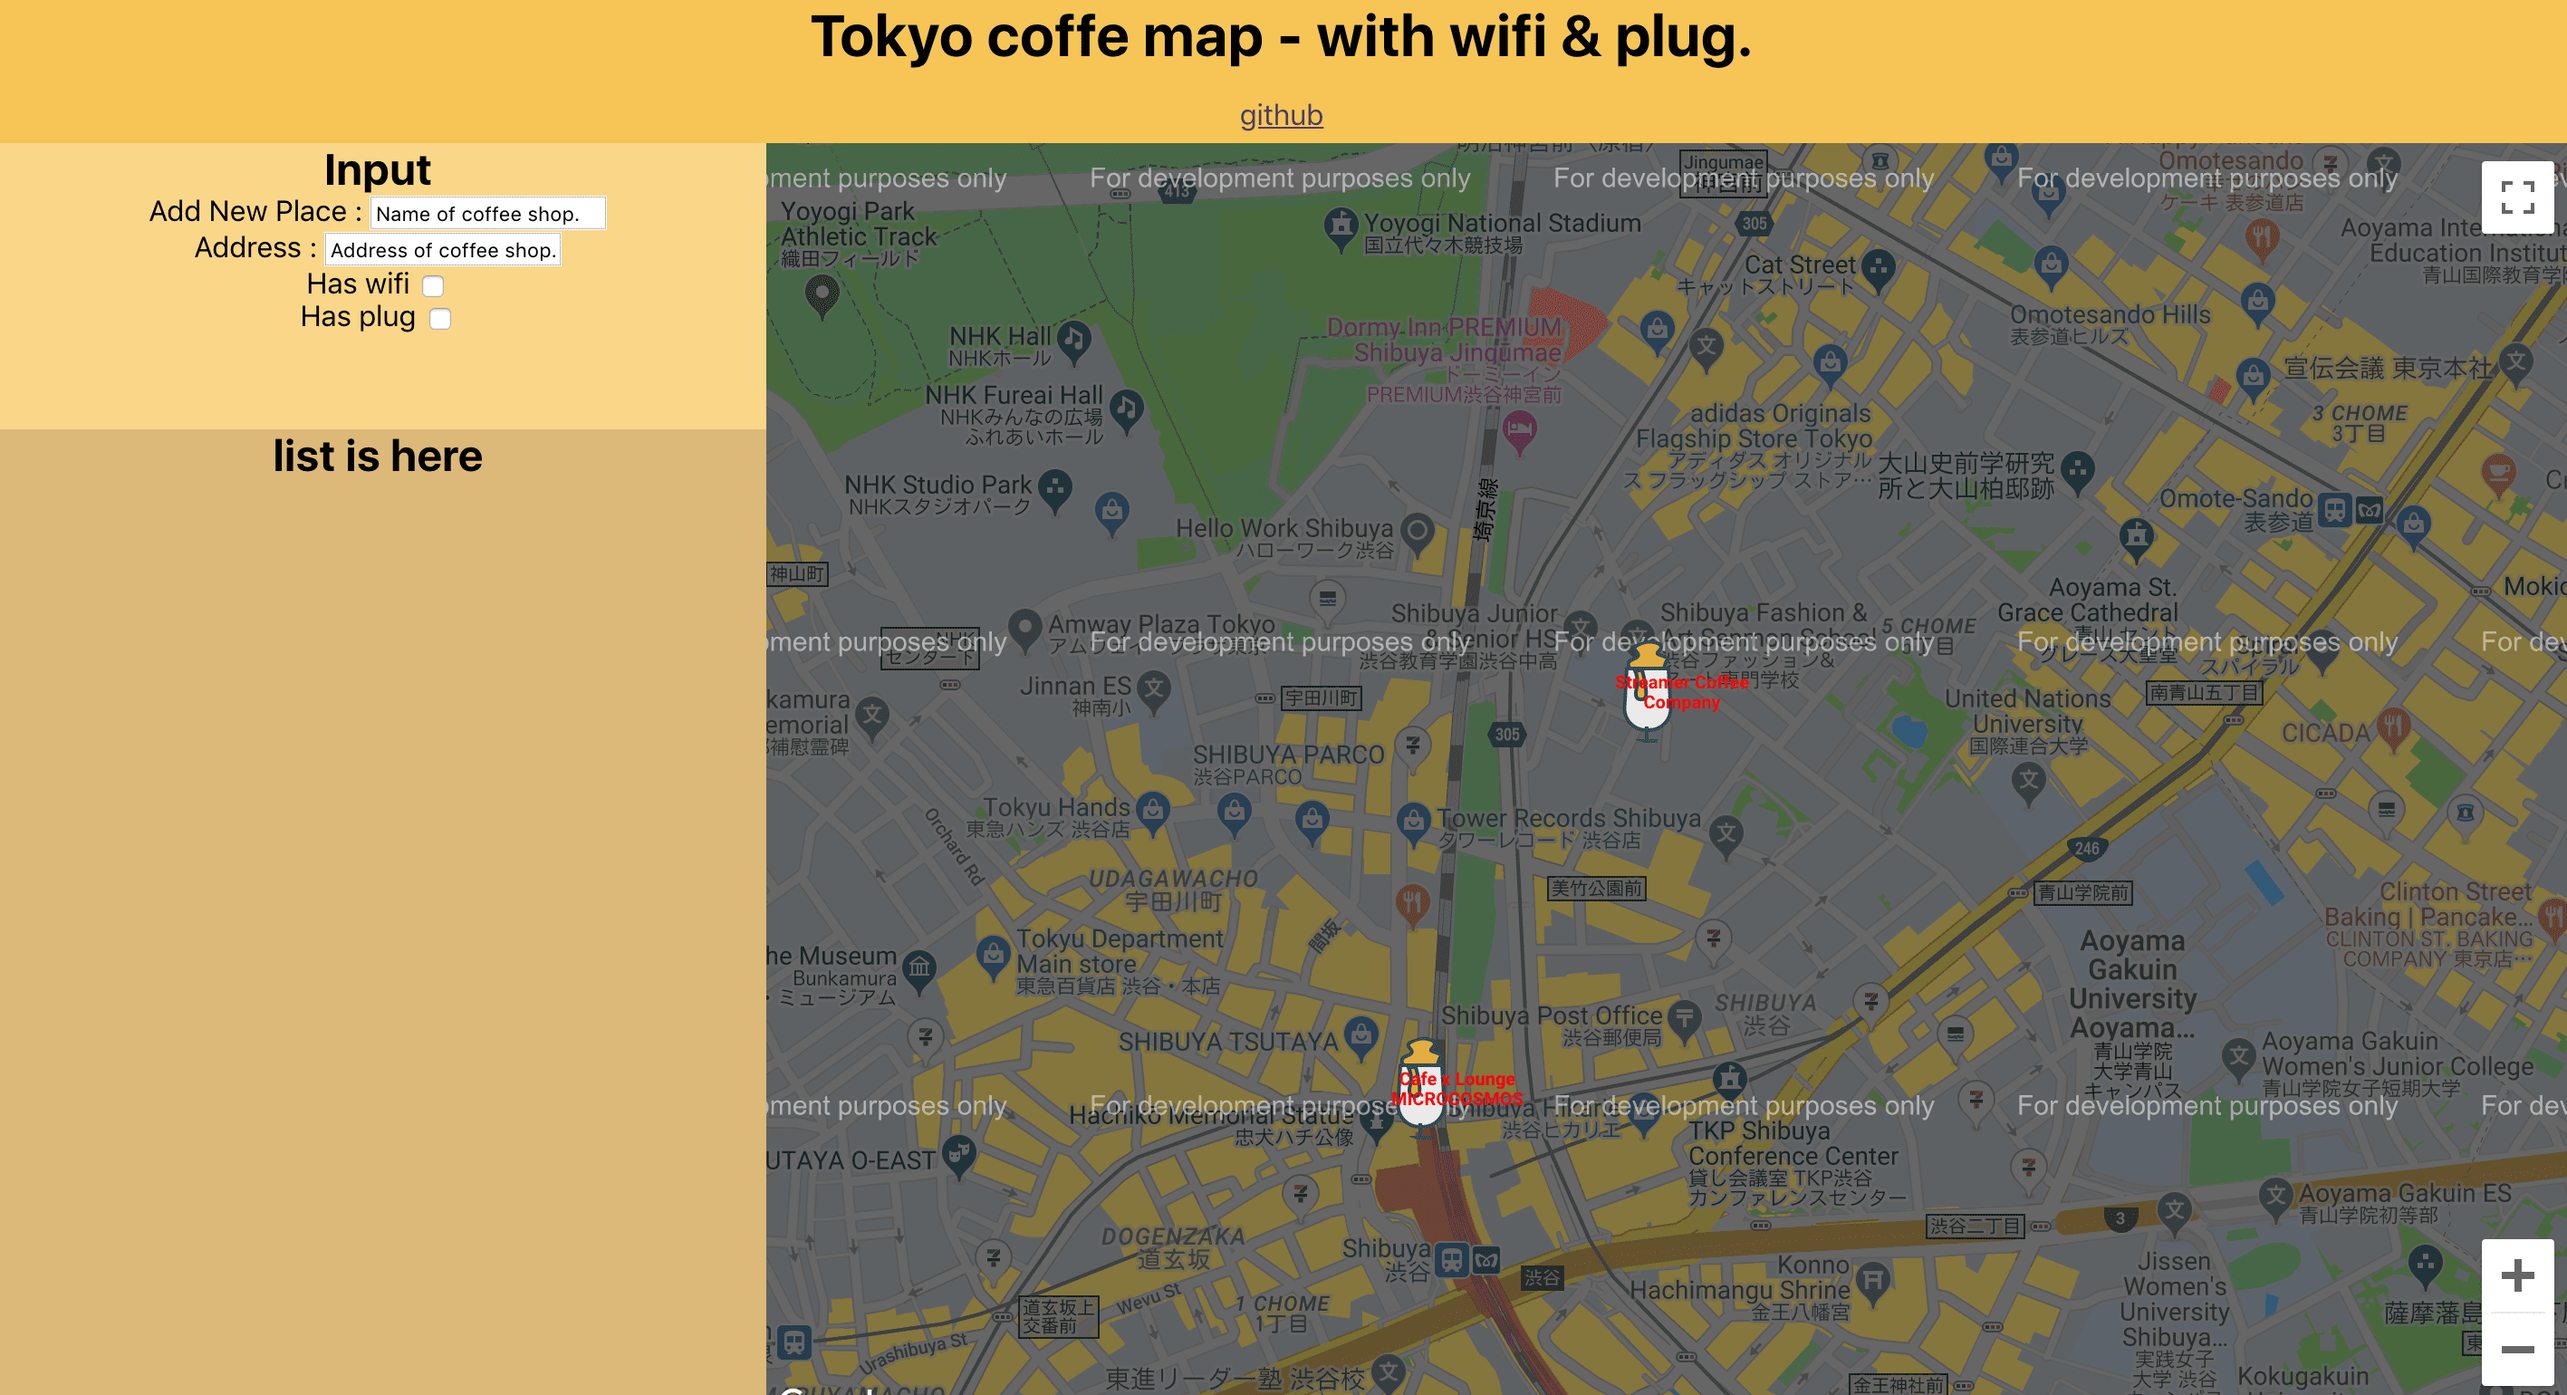
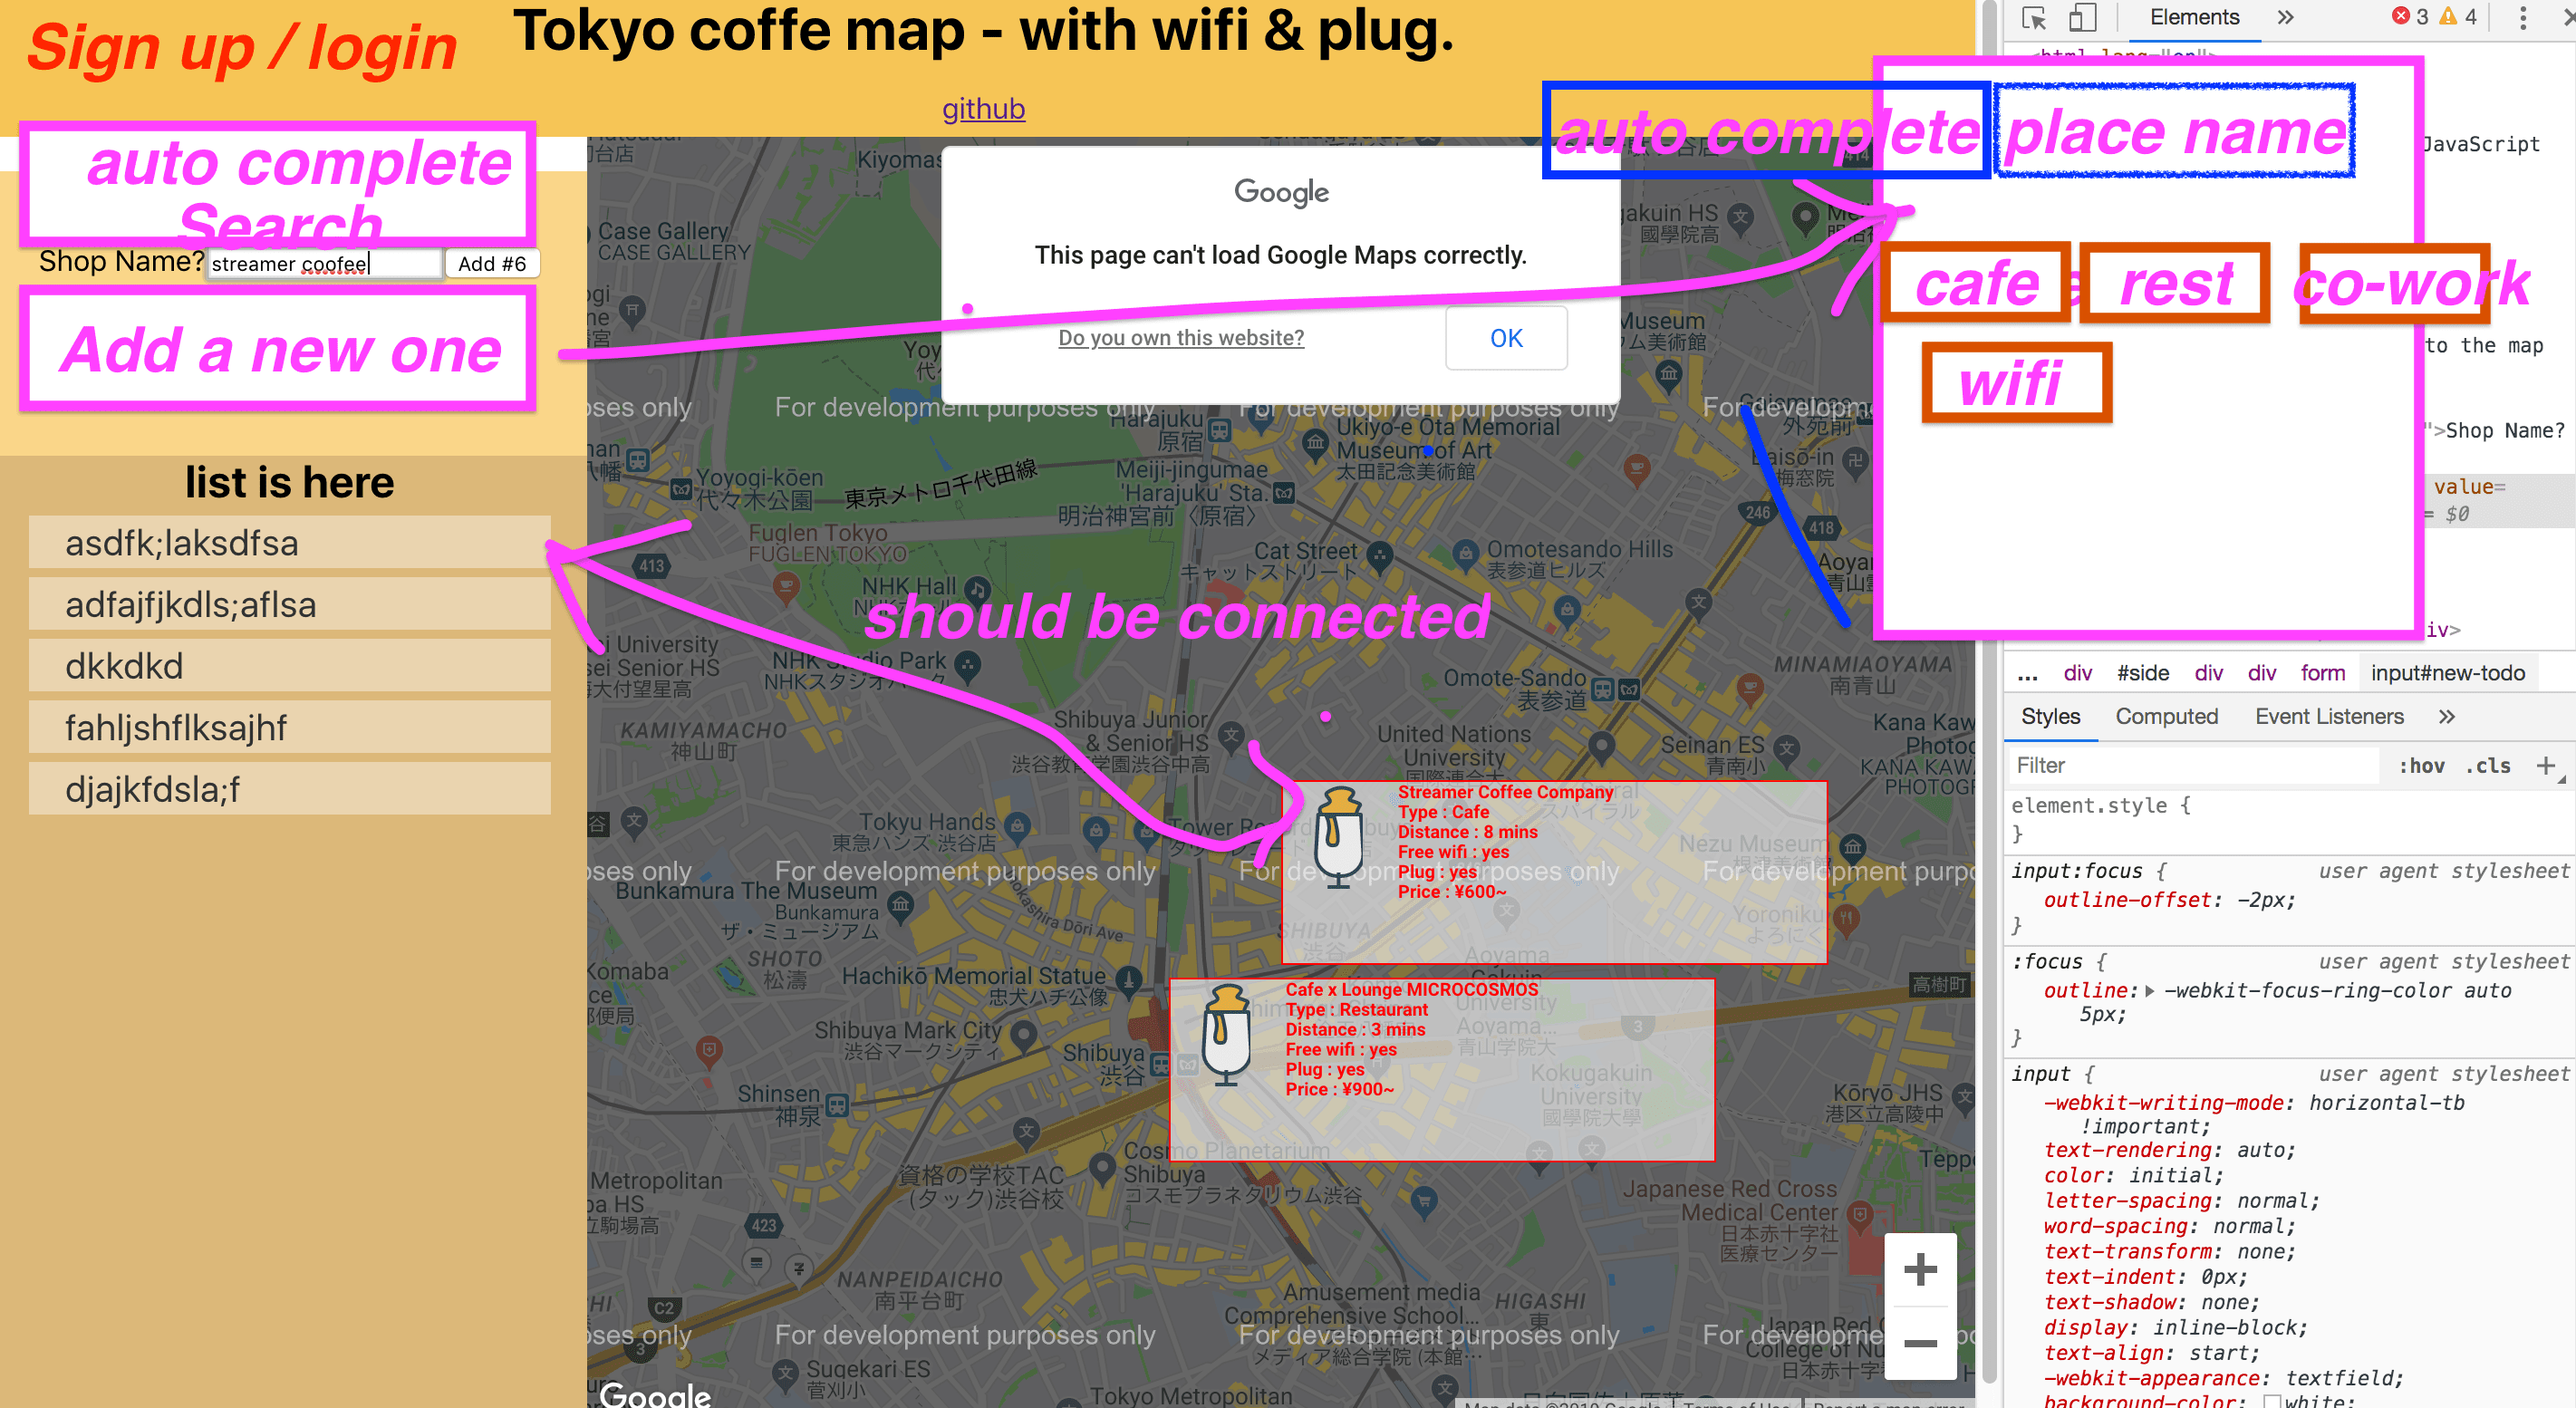
add new location and search section

diff --git a/src/index.js b/src/index.js
@@ -4,60 +4,36 @@ import './index.css';
 import App from './App';
 import * as serviceWorker from './serviceWorker';
 import SimpleMap from './components/map/google-map.js';
-
+import Input from './components/input/input.js';
 
 // ReactDOM.render(<App/>, document.getElementById('root'));
 
 function header() {
-    const header = (
-    <div class="header">
+    const header = (<div class="header">
         <h1>Tokyo coffe map - with wifi & plug.</h1>
         <a href="https://github.com/theyij/tokyo-dev-map" rel="noopener
- noreferrer"　target="_blank"><p>github</p></a>
+ noreferrer" target="_blank">
+            <p>github</p>
+        </a>
     </div>);
     ReactDOM.render(header, document.getElementById('header'));
 }
-function input() {
-    const input = (
-    <div class="input">
-        <h2>Input</h2>
-        <div>
-            <label for="name">Add New Place : </label>
-            <input type="text" id="name" name="name" value="Name of coffee shop." required />
-        </div>
-        <div>
-            <label for="address">Address : </label>
-            <input type="text" id="address" name="address" value="Address of coffee shop." required />
-        </div>
-        <div>
-            <label for="wifi">Has wifi </label>
-            <input type="checkbox" id="wifi" name="wifi" required />
-        </div>
-        <div>
-            <label for="plug">Has plug </label>
-            <input type="checkbox" id="plug" name="plug" required />
-        </div>
-    </div>);
-    ReactDOM.render(input, document.getElementById('input'));
+function side() {
+    const side = (
+      <Input/>
+    );
+    ReactDOM.render(side, document.getElementById('side'));
 }
-function list() {
-    const list = (
-    <div class="list">
-        <h2>list is here</h2>
-    </div>);
-    ReactDOM.render(list, document.getElementById('list'));
-}
+
 function map() {
-    const map = (
-    <div class="map">
-        <SimpleMap />
+    const map = (<div class="map">
+        <SimpleMap/>
 
     </div>);
     ReactDOM.render(map, document.getElementById('map'));
 }
 header();
-input();
-list();
+side();
 map();
 
 //

diff --git a/src/components/input/input.js b/src/components/input/input.js
@@ -1,0 +1,86 @@
+import React, {Component} from 'react';
+
+class Input extends React.Component {
+  constructor(props) {
+    super(props);
+    this.state = { items: [], text: '' };
+    this.handleChange = this.handleChange.bind(this);
+    this.handleSubmit = this.handleSubmit.bind(this);
+  }
+
+  render() {
+    return (
+      <div class="side">
+        <div class="search">
+          <h3>Looking for a place?</h3>
+          <form>
+            <label htmlFor="search-place">
+
+            </label>
+            <input
+              id="search-place"
+            />
+            <button>
+              Search
+            </button>
+          </form>
+        </div>
+        <div class="input">
+          <h3>Add more Location to the map</h3>
+          <form onSubmit={this.handleSubmit}>
+            <label htmlFor="new-location">
+              Name : 
+            </label>
+            <input
+              id="new-location"
+              onChange={this.handleChange}
+              value={this.state.text}
+            />
+            <button>
+              Submit #{this.state.items.length + 1}
+            </button>
+          </form>
+        </div>
+
+        <div class="output">
+          <h3>list is here</h3>
+          <AddedLocation items={this.state.items} />
+        </div>
+      </div>
+
+    );
+  }
+
+  handleChange(e) {
+    this.setState({ text: e.target.value });
+  }
+
+  handleSubmit(e) {
+    e.preventDefault();
+    if (!this.state.text.length) {
+      return;
+    }
+    const newItem = {
+      text: this.state.text,
+      id: Date.now()
+    };
+    this.setState(state => ({
+      items: state.items.concat(newItem),
+      text: ''
+    }));
+  }
+}
+
+class AddedLocation extends React.Component {
+  render() {
+    return (
+      <ul>
+        {this.props.items.map(item => (
+          <li  class="locations" key={item.id}>{item.text}</li>
+        ))}
+      </ul>
+    );
+  }
+}
+
+export default Input;

diff --git a/src/styles.css b/src/styles.css
@@ -1,9 +1,12 @@
 h1 {
-    margin: 0;
+  margin: 0;
 }
 
-h2 {
-    margin: 0;
+h2, h3 {
+    margin: 5px;
+    width: auto;
+    text-decoration: underline;
+    text-transform: uppercase;
 }
 
 .page {
@@ -25,16 +28,28 @@ h2 {
     width: 30%;
 }
 
-.input {
-    background-color: #FAD689;
-    height: 20vh;
+.search {
+    background-color: #DCB879;
+    height: 10vh;
     width: auto;
+    padding: 10px;
+
 }
 
-.list {
+.input {
+    background-color: #FAD689;
+    height: 30vh;
+    width: auto;
+    padding: 10px;
+
+}
+
+.output {
     width: auto;
     background-color: #DCB879;
-    height: 70vh;
+    height: 50vh;
+    padding: 10px;
+
 }
 
 .map {
@@ -43,6 +58,21 @@ h2 {
     float: right;
     width: 70%;
 }
+ul{
+  padding: 0;
+}
+.locations{
+  width: auto;
+  padding: 3px 20px;
+  background-color: rgba(255,255,255,0.4);
+  color: #323232;
+  list-style-type: none;
+  font-size: 20px;
+  text-align: left;
+  margin: 5px 0;
+}
+
+
 .marker{
   margin: 0 auto;
   width: 300px;

diff --git a/public/index.html b/public/index.html
@@ -30,10 +30,7 @@
     <noscript>You need to enable JavaScript to run this app.</noscript>
     <div class="page">
         <div id="header"></div>
-        <div class="side">
-            <div id="input"></div>
-            <div id="list"></div>
-        </div>
+        <div id="side"></div>
         <div id="map"></div>
     </div>
     <!--

diff --git a/src/components/map/google-map.js b/src/components/map/google-map.js
@@ -6,7 +6,7 @@ import {API_KEY} from './apiKey.js';
 const HardCodePoints = ({info}) => (<div class='marker'>
     <span class="pin"></span>
     <ul class="information">
-      <li>{info[0]}</li>
+      <h3>{info[0]}</h3>
       <li>Type : {info[1]}</li>
       <li>Distance : {info[2]}</li>
       <li>Free wifi : {info[3]}</li>
